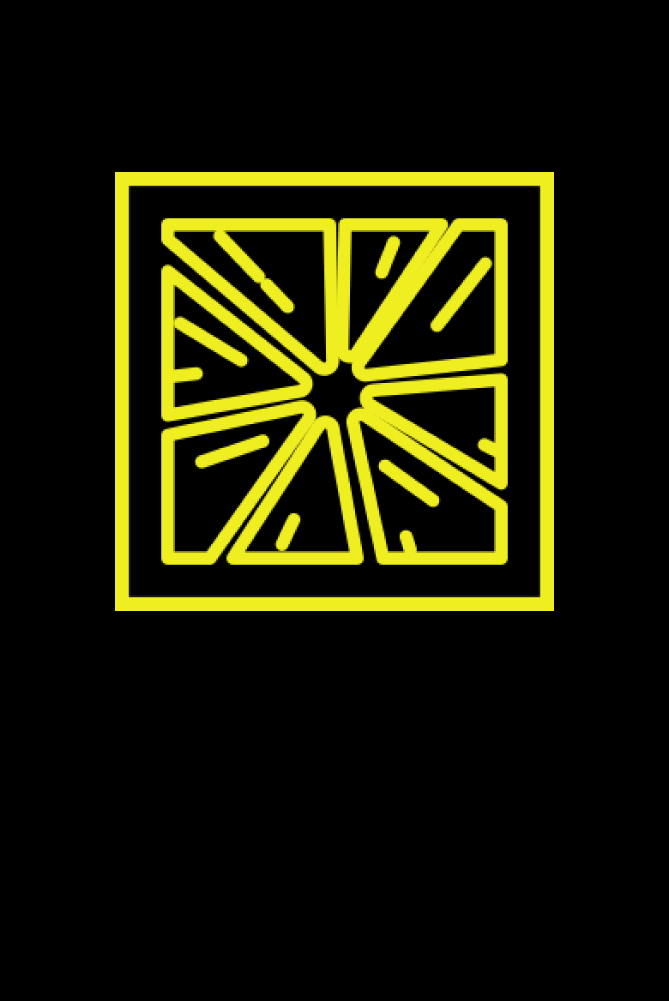
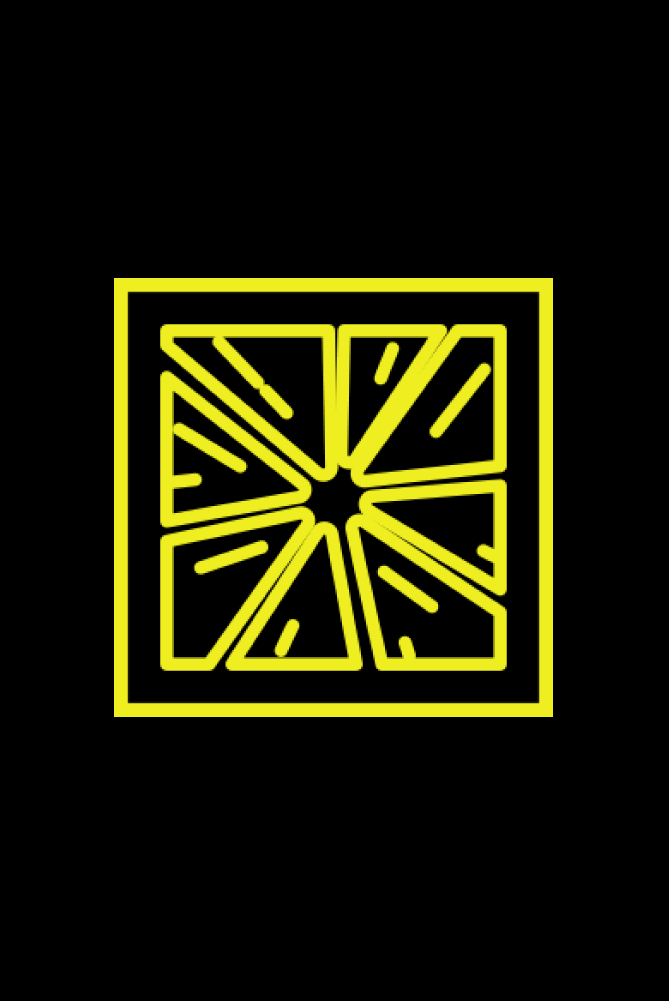
animation arrow & change img pour correspondre

Changed region(s): [[0.1495, 0.1548, 0.8371, 0.7433]]

diff --git a/item-zestore.html b/item-zestore.html
@@ -171,6 +171,7 @@
                                             <h5>Tools</h5>
                                             <ul>
                                                 <li>Wordpress</li>
+                                                <li>Woocommerce plugin</li>
                                                 <li>Photoshop, Zeplin (for design)</li>
                                                 <li>PHP, SQL, HTML, SASS, JS</li>
                                                 <li>GIT (for teamwork)</li>
@@ -188,6 +189,7 @@
                                             <h5>Outils</h5>
                                             <ul>
                                                 <li>Wordpress</li>
+                                                <li>Woocommerce plugin</li>
                                                 <li>Photoshop, Zeplin (pour le design)</li>
                                                 <li>PHP, SQL, HTML, SASS, JS</li>
                                                 <li>GIT (pour le travail en équipe)</li>

diff --git a/assets/css/base.css b/assets/css/base.css
@@ -88,6 +88,41 @@ ul{
 	margin-top: 0;
 }
 
+#icon-navarrow{
+	animation: jello 2s infinite;
+	transform-origin: center;
+}
+
+@keyframes jello {
+	11.1% {
+		transform: none
+	}
+	22.2% {
+		transform: skewX(-12.5deg) skewY(-12.5deg)
+	}
+	33.3% {
+		transform: skewX(6.25deg) skewY(6.25deg)
+	}
+	44.4% {
+		transform: skewX(-3.125deg) skewY(-3.125deg)
+	}
+	55.5% {
+		transform: skewX(1.5625deg) skewY(1.5625deg)
+	}
+	66.6% {
+		transform: skewX(-0.78125deg) skewY(-0.78125deg)
+	}
+	77.7% {
+		transform: skewX(0.390625deg) skewY(0.390625deg)
+	}
+	88.8% {
+		transform: skewX(-0.1953125deg) skewY(-0.1953125deg)
+	}
+	100% {
+		transform: none
+	}
+}
+
 .animateTxt {
   animation: text-shadow 1.5s ease-in-out infinite;
   font-weight: 900;

diff --git a/slideshow.html b/slideshow.html
@@ -191,7 +191,7 @@
 						de rien sur Wordpress.
 						<h6>Tools/Outils</h6>
 						<ul>
-							<li>Wordpress</li>
+							<li>Wordpress & Woocommerce plugin</li>
 							<li>Photoshop, Zeplin</li>
 							<li>PHP, SQL, HTML, SASS, JS</li>
 							<li>GIT</li>
